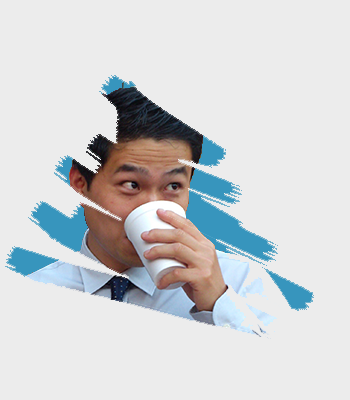
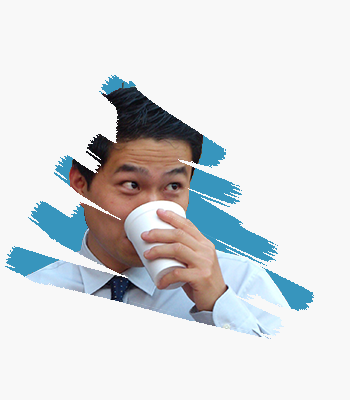
mixin noCopy

diff --git a/src/index.css b/src/index.css
@@ -15,7 +15,7 @@
 #header_container .scrollIcon {
   width: 30px;
   height: 50px;
-  border: 3px solid #ececec;
+  border: 3px solid #f8f8f8;
   border-radius: 30px;
   display: flex;
   justify-content: center;
@@ -26,7 +26,7 @@
 }
 #header_container .scrollIcon:after {
   content: "scroll down";
-  color: #ececec;
+  color: #f8f8f8;
   font-family: "Roboto";
   font-weight: 300;
   width: 100px;
@@ -37,7 +37,7 @@
   animation: scrollText 2s infinite;
 }
 #header_container i.scroll {
-  background: #ececec;
+  background: #f8f8f8;
   width: 6px;
   height: 14px;
   display: block;
@@ -117,7 +117,7 @@
   position: absolute;
   width: 50vw;
   background: linear-gradient(90deg, rgb(111, 54, 86) 0%, rgb(27, 56, 137) 50%, #0082b7 100%);
-  color: #ececec;
+  color: #f8f8f8;
   font-size: 6vw;
   font-weight: 800;
   width: 40%;
@@ -127,6 +127,8 @@
   transform: translate(-50%, -51%);
   z-index: 2;
   overflow: visible;
+  user-select: none;
+  pointer-events: none;
 }
 #title .text span {
   display: inline-block;
@@ -243,6 +245,8 @@ body a:hover {
   animation-timing-function: ease-in-out;
   margin-left: 1vw;
   margin-top: 0px;
+  user-select: none;
+  pointer-events: none;
 }
 @keyframes floating {
   0% {
@@ -407,7 +411,7 @@ body a:hover {
   position: relative;
   width: 100px;
   height: 57.74px;
-  background-color: #ececec;
+  background-color: #f8f8f8;
   margin: 32.87px 2px;
   display: block;
   padding: 0;
@@ -420,7 +424,7 @@ body a:hover {
   border-right: 50px solid transparent;
   top: 100%;
   width: 0;
-  border-top: 28.87px solid #ececec;
+  border-top: 28.87px solid #f8f8f8;
 }
 .hexagonGrid .row .hexagon::before {
   content: "";
@@ -429,7 +433,7 @@ body a:hover {
   border-left: 50px solid transparent;
   border-right: 50px solid transparent;
   bottom: 100%;
-  border-bottom: 28.87px solid #ececec;
+  border-bottom: 28.87px solid #f8f8f8;
 }
 .hexagonGrid .row.row-moved {
   margin-left: 19px;
@@ -562,14 +566,14 @@ body a:hover {
 }
 
 .default_light {
-  background: #ececec !important;
+  background: #f8f8f8 !important;
   opacity: 0.5 !important;
 }
 .default_light::after {
-  border-top: 28.87px solid #ececec !important;
+  border-top: 28.87px solid #f8f8f8 !important;
 }
 .default_light::before {
-  border-bottom: 28.87px solid #ececec !important;
+  border-bottom: 28.87px solid #f8f8f8 !important;
 }
 
 .default_dark {
@@ -856,7 +860,7 @@ body a:hover {
 }
 
 #light {
-  background-color: #ececec;
+  background-color: #f8f8f8;
 }
 #light .text-color {
   color: black;
@@ -969,6 +973,8 @@ body a:hover {
 }
 #contact .contact-pic {
   width: 25vw;
+  user-select: none;
+  pointer-events: none;
 }
 #contact .contact-icon img {
   width: 1.5rem;

diff --git a/src/scss/abstracts/_variables.scss b/src/scss/abstracts/_variables.scss
@@ -1,4 +1,4 @@
-$whiteColor: #ececec;
+$whiteColor: #f8f8f8;
 $primaryColor: #254a5d;
 $primaryColor2: #3795bd;
 $shadowColor: 0 0.5rem 1rem rgba(0, 0, 0, 0.5);
@@ -22,6 +22,14 @@ $fullWidth: 100vw;
 $fullHeight: 100vh;
 $margin-y: 30vh;
 $margin-y-title-content: 6vh;
+
+
+  @mixin noCopy(){
+     user-select: none;
+  pointer-events: none;
+  }
+
+
 
 @mixin flexbox() {
   display: -webkit-box;
@@ -82,11 +90,13 @@ $margin-y-title-content: 6vh;
     font-family: inherit;
   }
 
+
+
   button:before,
   button:after {
     content: "";
     position: absolute;
-    background: #f8f8f8;
+    background: $whiteColor;
     transition: all 0.2s linear;
   }
 
@@ -123,4 +133,7 @@ $margin-y-title-content: 6vh;
     z-index: 3;
     position: relative;
   }
+
+
+
 }

diff --git a/src/layout/Header.jsx b/src/layout/Header.jsx
@@ -37,11 +37,11 @@ export default function Header(props) {
         </div>
         <NavBar />
         <div id="title" className="position-relative">
-          <div class="text">
-            <img src={selfie} height="auto" alt="selfie" />
+          <div className="text">
+            <img src={selfie} height="auto" alt="selfie" className="noCopy" />
             <span>Hi, I'm Lei</span>
           </div>
-          <div class="text2">
+          <div className="text2">
             <img src={text2} alt="I MAKE WEBSITES" className="img-fluid" />
           </div>
         </div>

diff --git a/src/scss/layout/_footer.scss b/src/scss/layout/_footer.scss
@@ -38,6 +38,7 @@
       animation-timing-function: ease-in-out;
       margin-left: 1vw;
       margin-top: 0px;
+      @include noCopy;
     }
 
     @keyframes floating {

diff --git a/src/scss/pages/_contact.scss b/src/scss/pages/_contact.scss
@@ -19,6 +19,7 @@
   }
   .contact-pic {
     width: 25vw;
+     @include noCopy
   }
   .contact-icon img {
     width: 1.5rem;

diff --git a/src/scss/layout/_header.scss b/src/scss/layout/_header.scss
@@ -149,6 +149,7 @@
     img {
       vertical-align: -16%;
     }
+    @include noCopy
   }
 }
 
